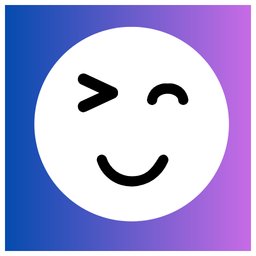
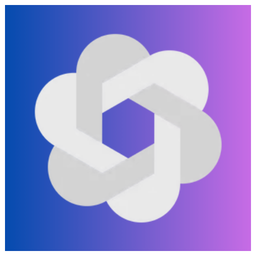
chore: release 0.1.1

diff --git a/test/metadata.test.js b/test/metadata.test.js
@@ -40,7 +40,7 @@ test('package metadata is public-ready and clearly unofficial', () => {
   assert.equal(packageJson.displayName, 'Codex CLI Launcher');
   assert.equal(packageJson.description, 'Unofficial VS Code extension that launches Codex CLI in a side terminal from the editor toolbar.');
   assert.equal(packageJson.publisher, 'mikesoft');
-  assert.equal(packageJson.version, '0.1.0');
+  assert.equal(packageJson.version, '0.1.1');
   assert.equal(packageJson.icon, 'media/icon.png');
   assert.equal(packageJson.license, 'MIT');
   assert.equal(packageJson.repository.url, 'https://github.com/TheStreamCode/codex-cli-launcher.git');
@@ -163,6 +163,8 @@ test('changelog documents the initial release scope', () => {
   const changelog = readText('CHANGELOG.md');
 
   assert.match(changelog, /^# Changelog$/m);
+  assert.match(changelog, /## 0\.1\.1/);
+  assert.match(changelog, /Refreshed the Marketplace icon and editor toolbar launcher artwork/);
   assert.match(changelog, /## 0\.1\.0/);
   assert.match(changelog, /Added Codex CLI launcher command/);
   assert.match(changelog, /Added consent-based guided install flow/);

diff --git a/CHANGELOG.md b/CHANGELOG.md
@@ -1,5 +1,12 @@
 # Changelog
 
+## 0.1.1
+
+### Changed
+
+- Refreshed the Marketplace icon and editor toolbar launcher artwork.
+- Rebuilt the VSIX package with the updated visual assets.
+
 ## 0.1.0
 
 ### Added

diff --git a/README.md b/README.md
@@ -13,6 +13,7 @@ Works on Windows, macOS, and Linux where Codex CLI is available to the integrate
 ## Features
 
 - Adds a launcher button to the editor title area
+- Uses local Marketplace and toolbar artwork packaged with the extension
 - Opens a fresh terminal beside the active editor on every launch
 - Uses the active editor workspace when available, with a fallback to the first open workspace folder
 - Runs a configurable Codex CLI command
@@ -125,6 +126,8 @@ The launcher prefers the workspace folder of the active editor. To control where
 ## Privacy
 
 Codex CLI Launcher does not collect telemetry, analytics, or personal data.
+
+All extension artwork is packaged locally in the VSIX. No external image assets are loaded at runtime.
 
 ## Development
 